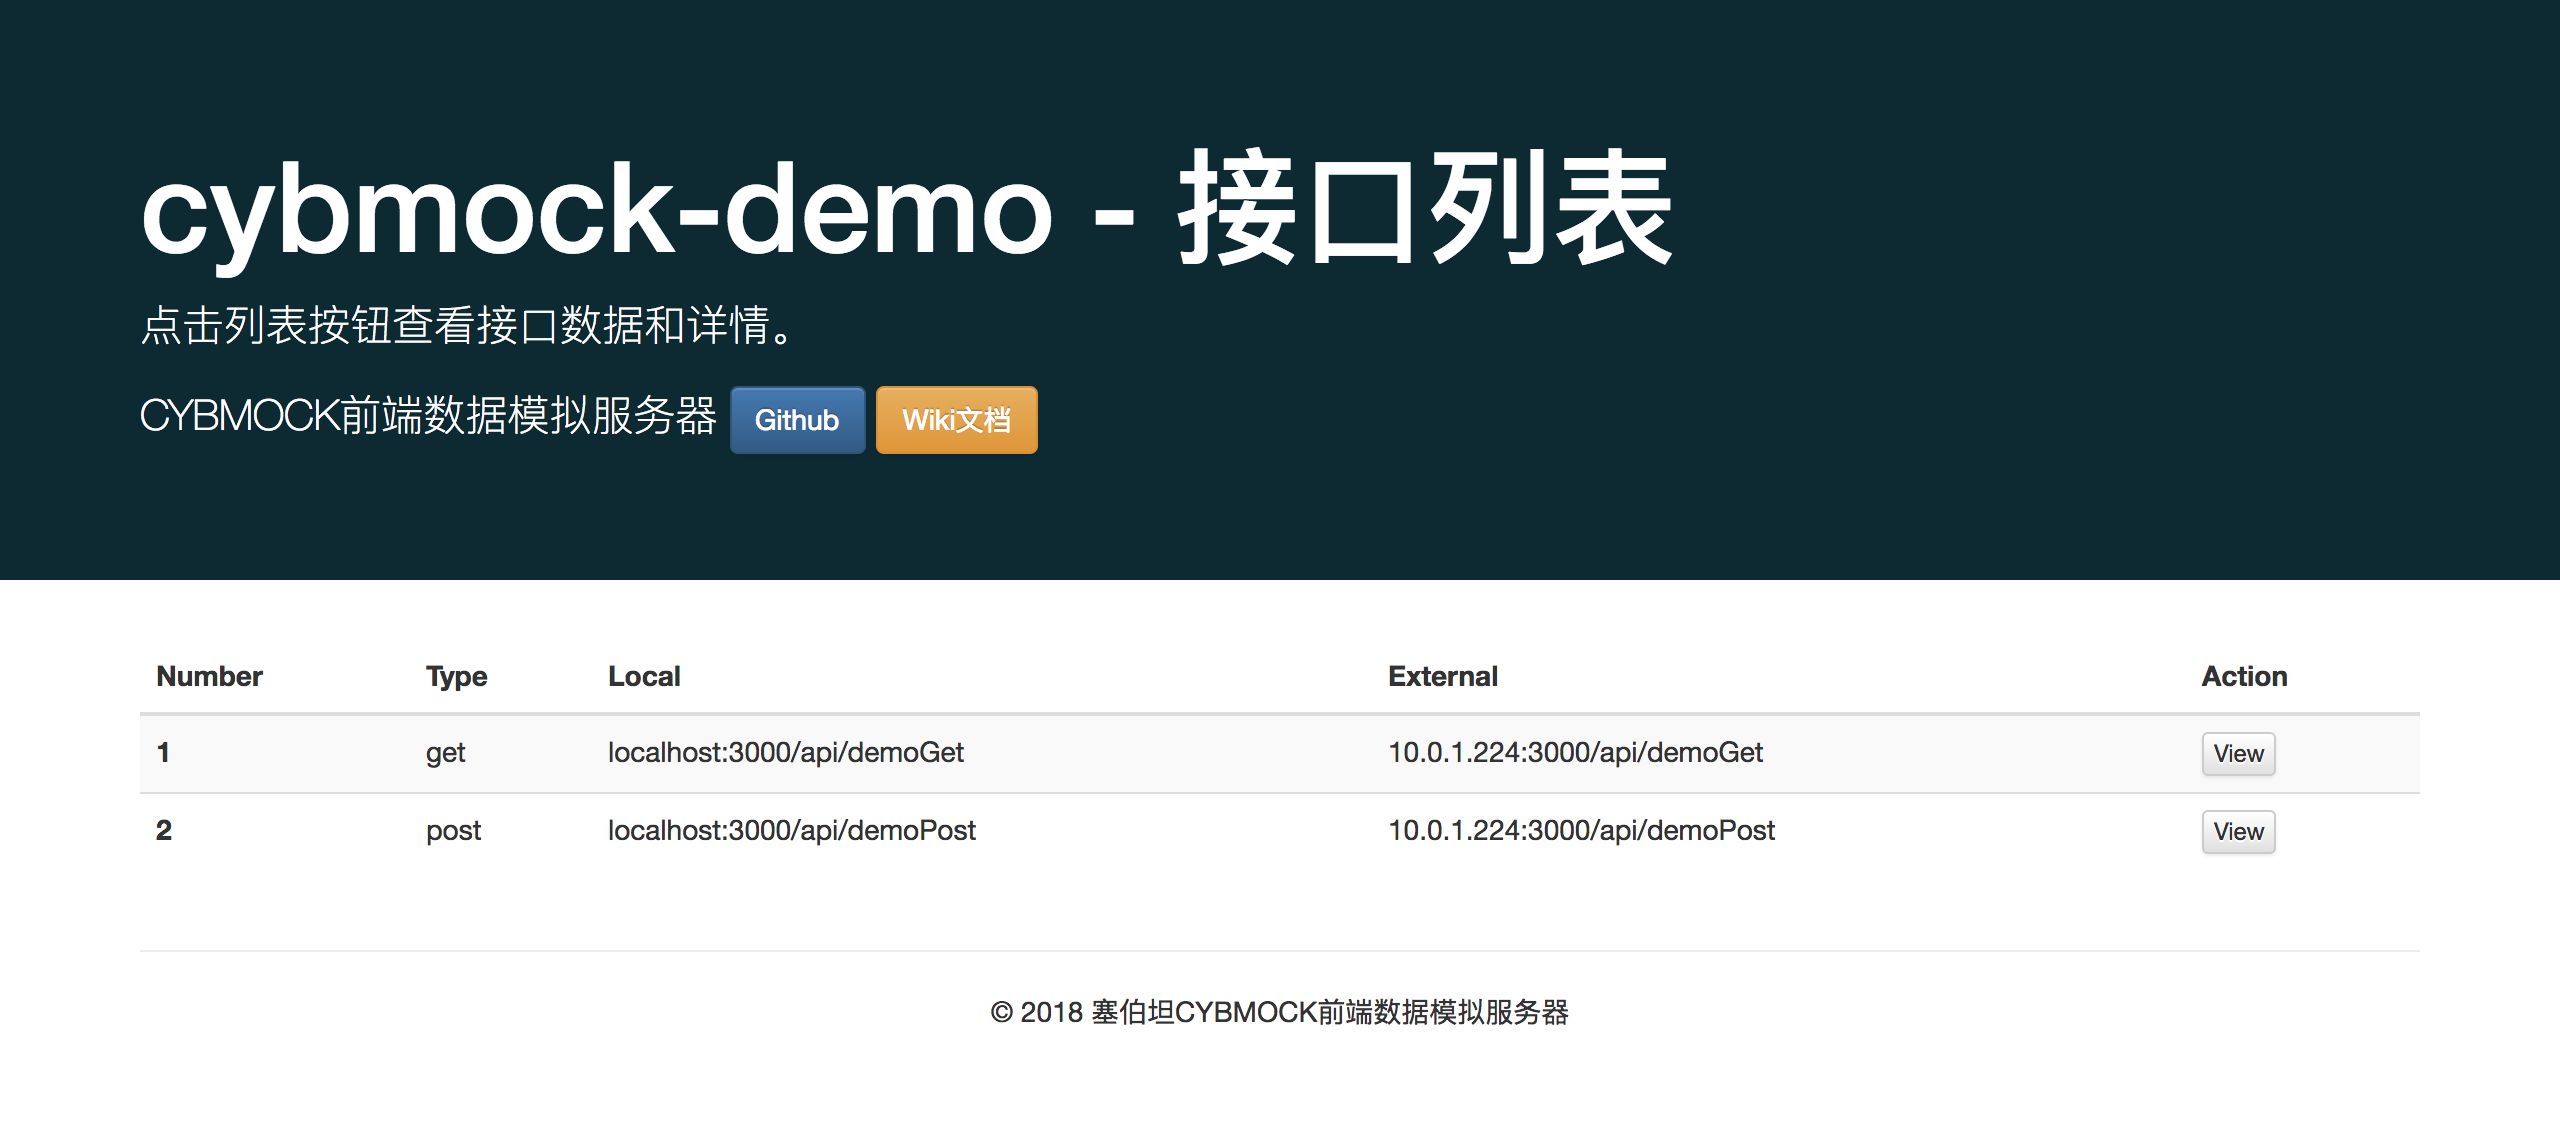
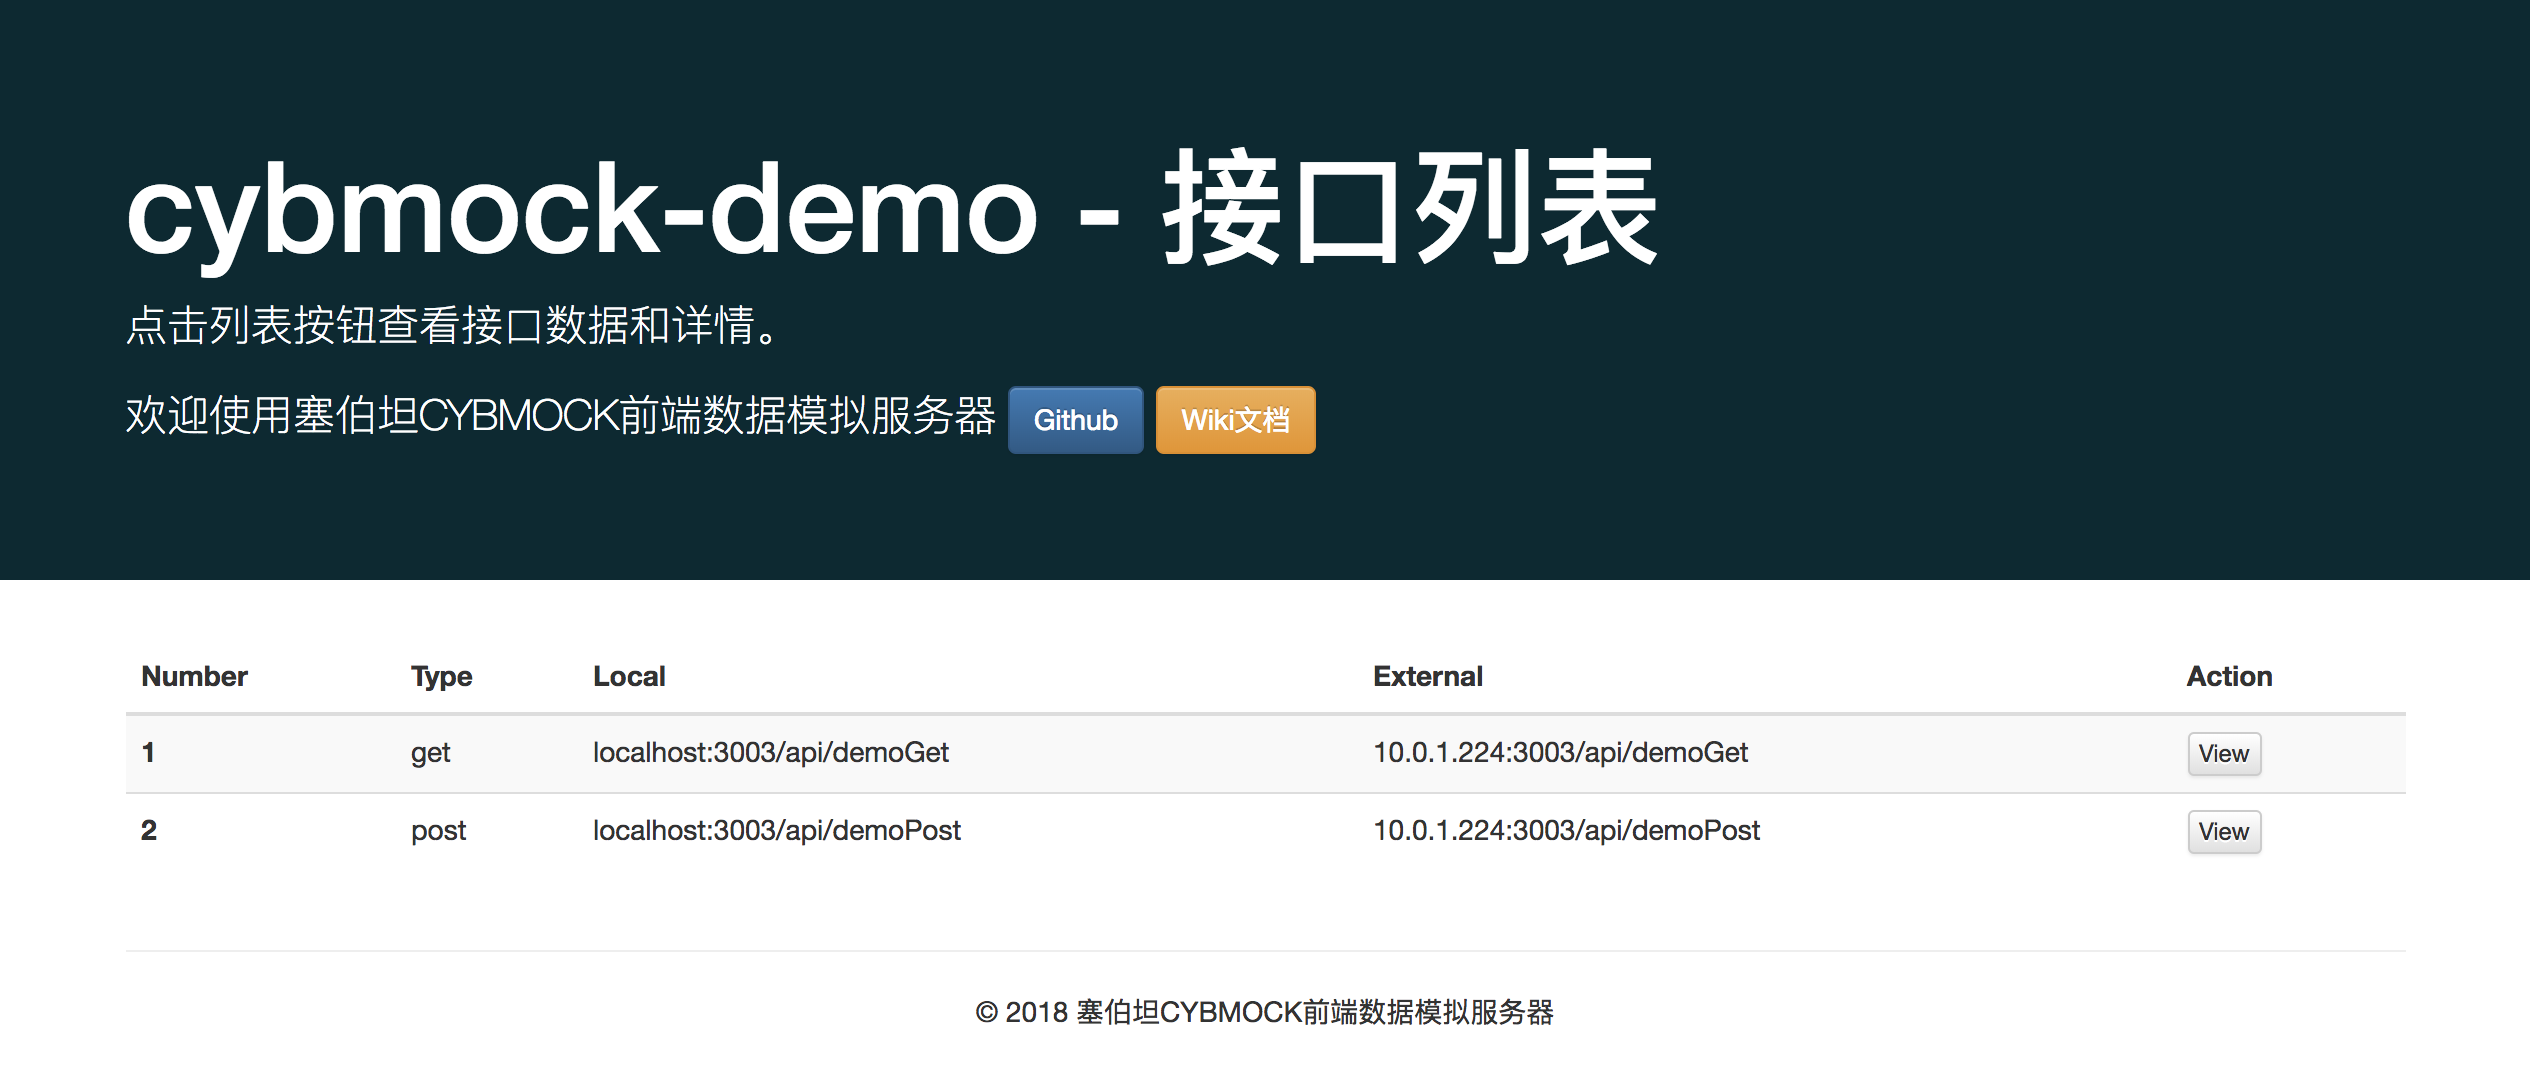
v1.0.0正式版

diff --git a/views/index.html b/views/index.html
@@ -33,9 +33,9 @@
       <p>
         点击列表按钮查看接口数据和详情。
       </p>
-      <p>塞伯坦CYBMOCK前端数据模拟服务器
-        <a class="btn btn-primary" href="https://github.com/jd-cyb/cyb-mockserver" target="_blank" role="button">Github</a>
-        <a class="btn btn-warning" href="https://github.com/jd-cyb/cyb-mockserver/wiki" target="_blank" role="button">Wiki文档</a>
+      <p>欢迎使用塞伯坦CYBMOCK前端数据模拟服务器
+        <a class="btn btn-primary" href="https://github.com/jd-cyb/cybmock" target="_blank" role="button">Github</a>
+        <a class="btn btn-warning" href="https://github.com/jd-cyb/cybmock/wiki" target="_blank" role="button">Wiki文档</a>
       </p>
     </div>
   </div>
